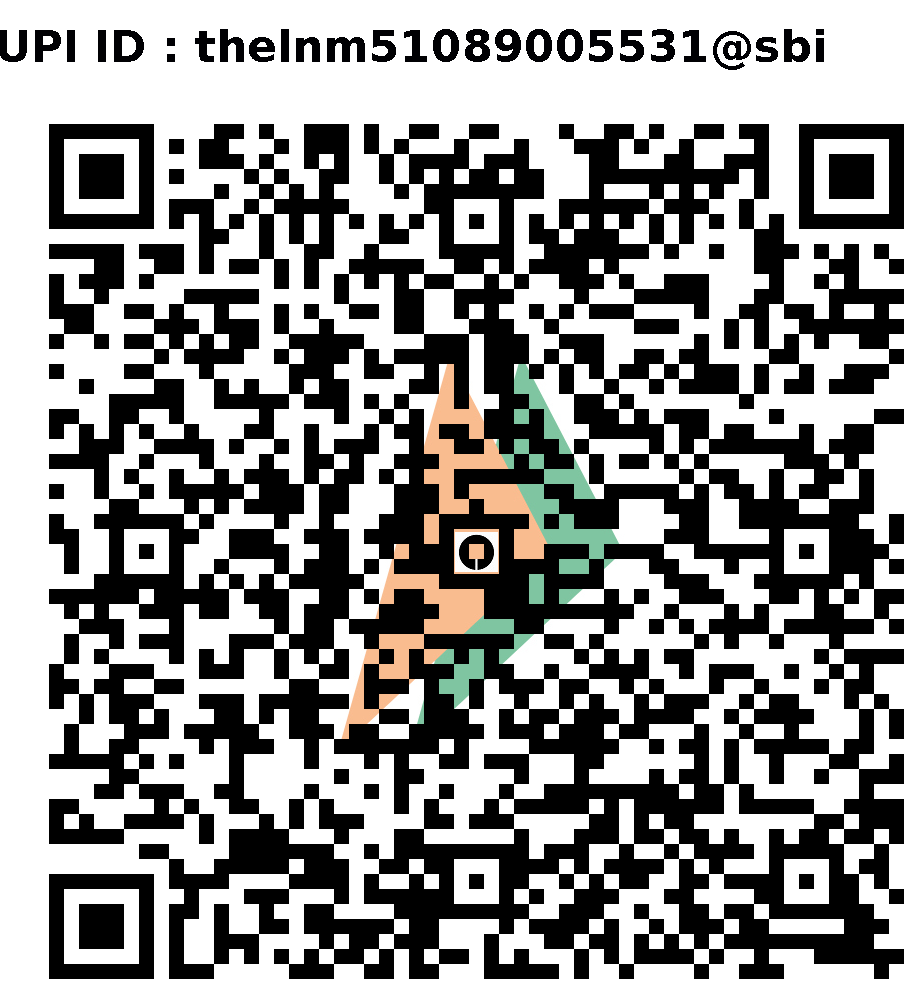
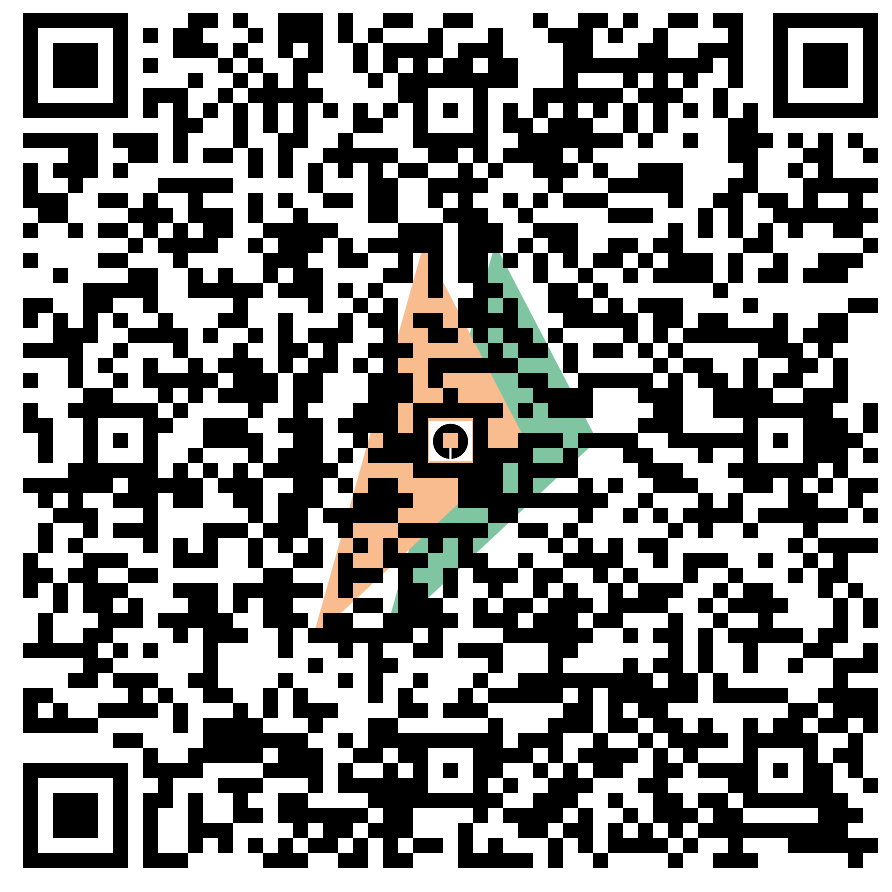
qr update

diff --git a/src/Components/TicketsPage/TicketsPage.jsx b/src/Components/TicketsPage/TicketsPage.jsx
@@ -149,7 +149,18 @@ export default function TicketBookingPage() {
                       {item.discount}
                     </p>
                   )}
-                  <img src={qr} className="h-44 w-44 mx-auto m-5"></img>
+                  <img src={qr}
+                    width = {250}
+                    height={250}
+                  className=" mx-auto m-5"></img>
+
+                  {/* add a text which says: or UPI ID:  thelnm51089005531@sbi  */}
+                  <p className="text-center">
+                  <span className="text-center font-sans !font-bold text-red-700 ">OR</span>
+                    <br/>
+                   use UPI ID: <span className="text-[#ff2b05]">thelnm51089005531@sbi</span> 
+                  </p>
+
                   <div className="mt-5 flex justify-center">
                     <motion.div
                       whileHover={{ scale: 1.05 }}

diff --git a/src/Components/Home/Home.jsx b/src/Components/Home/Home.jsx
@@ -10,6 +10,7 @@ import birdSvg from "../../assets/Bird.svg";
 import Ticket from "../utility/Ticket";
 import Youtube from "../utility/Youtube";
 import Title from "../utility/Title";
+import { Link } from "react-router-dom";
 
 const sectionVariants = {
   hidden: { opacity: 0, y: 50 },
@@ -135,7 +136,11 @@ const Home = () => {
                   </span>
                 </h2>
                 <div className="hero-buttons mt-8 space-x-4 font-generalSans">
-                  <RedButton to="#">Book Your Tickets Now !</RedButton>
+                  <RedButton to="#">
+                    <Link to={"/booktickets"}>
+                    Book Your Tickets Now !
+                    </Link>
+                  </RedButton>
                 </div>
               </div>
             </div>
